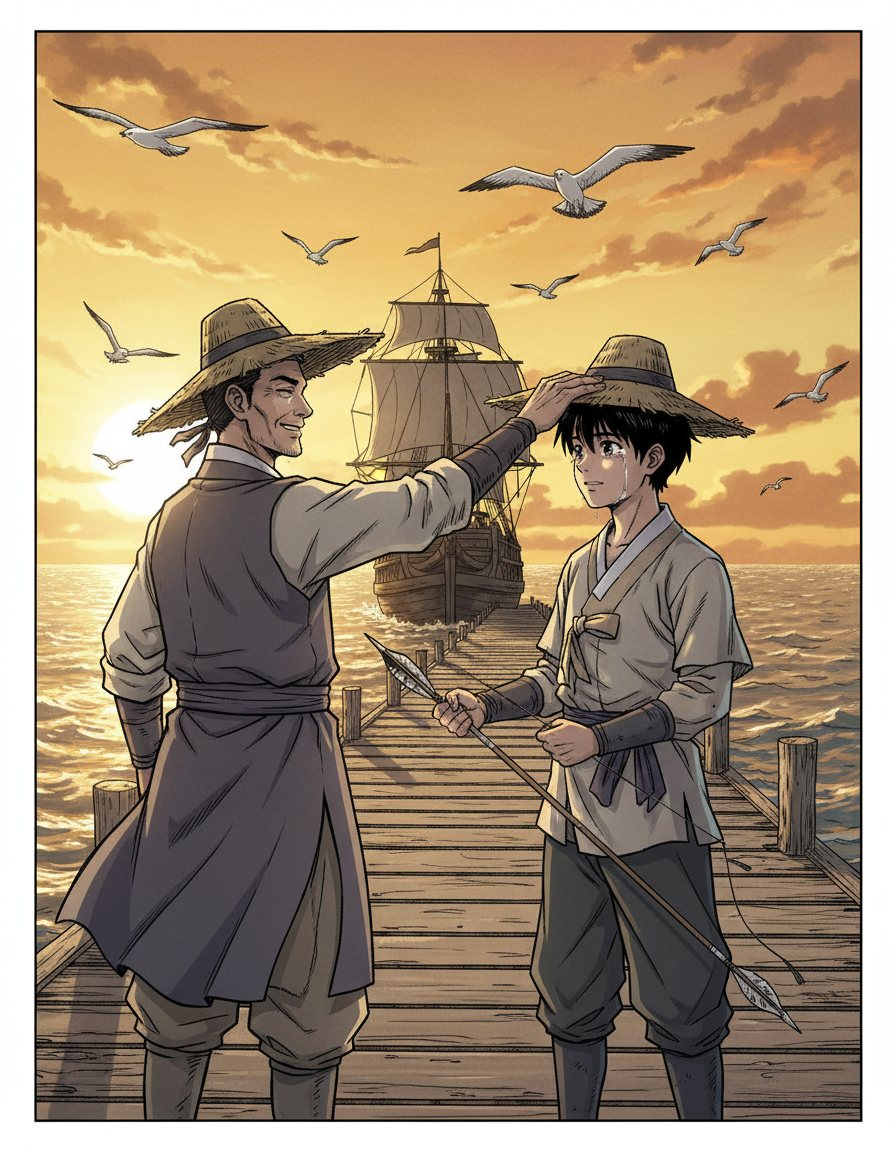
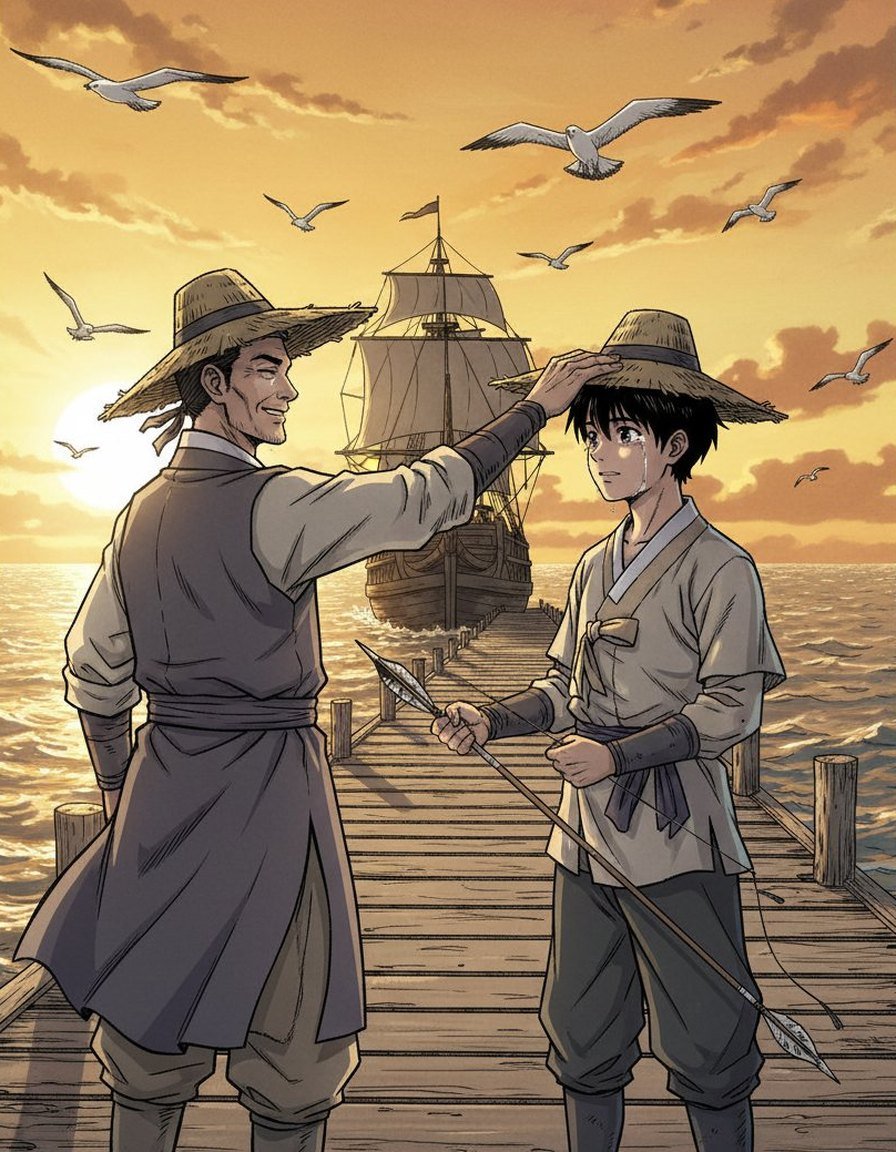
그림 카드 8장만 남김(유물마다 고른 한 장), 5-1 뒷면은 무늬·이름판 없이 깨끗하게
- 천자총통·대·중·소신기전·지자총통·현자총통·각궁·명적은 B, 유엽전·각궁 재료는 C. 나머지 그림 16장 삭제
- 유엽전 C는 흰 테두리를 잘라 살짝 확대
- 5-1 뒷면: 칠보문과 사각형 이름판을 빼고 모눈 위에 이름·이야기·로고만
- 카드 시안 페이지 맨 위: 고른 8장을 앞면·뒷면 짝으로

diff --git a/public/assets/js/cards.js b/public/assets/js/cards.js
@@ -1,12 +1,12 @@
 // 아이에게 주는 유물 카드. 카드 내용은 stops.json의 card 칸(종류, 전투력, 스킬 이름, 뒷면 이야기).
 // 전투력은 고증이 아니라 아이 눈에 세 보이는 정도. 앞면에는 설명글을 두지 않는다(사진·이름·전투력·스킬 이름만).
-// 11/16 결정: 5-1(설계도 + 뒷면 칠보문). 2-1(한지 도록 + 금색 포인트)은 예비. 나머지 시안은 삭제(git 기록에 남음).
+// 11/16 결정: 5-1(설계도, 뒷면은 무늬·이름판 없이 깨끗하게). 2-1(한지 도록 + 금색 포인트)은 예비. 나머지 시안은 삭제(git 기록에 남음).
 import { esc } from "./core.js";
 
 // logo: 카드 바탕이 어두우면 흰 로고(dark), 밝으면 원색 로고(light)
 export const VARIANTS = [
-  { id: "plan-back", base: "plan", label: "5-1", tag: "결정", name: "설계도 · 뒷면 칠보문", logo: "dark", back: { motif: "chilbo", layout: "field" },
-    desc: "남색 모눈 설계도, 전투력만큼 차오르는 동그란 눈금. 뒷면 전체에 칠보문과 가운데 이름판." },
+  { id: "plan-back", base: "plan", label: "5-1", tag: "결정", name: "설계도 · 깨끗한 뒷면", logo: "dark", back: { layout: "plain" },
+    desc: "남색 모눈 설계도, 전투력만큼 차오르는 동그란 눈금. 뒷면은 모눈 위에 이름·이야기·로고만." },
   { id: "catalog-gold", base: "catalog", label: "2-1", tag: "예비", name: "한지 도록 · 금색 포인트", logo: "light", back: { motif: "lotus", layout: "center" },
     desc: "한지색 바탕, 금색 이중 테두리, 빨간 낙관 도장 전투력. 뒷면 가운데 연화문(수막새 연꽃무늬)." },
 ];
@@ -27,15 +27,8 @@ function lotus(sw = 1.4) {
   for (let k = 0; k < 6; k++) { const t = (k * 60 * Math.PI) / 180; seeds += `<circle cx="${f2(50 + 5 * Math.cos(t))}" cy="${f2(50 + 5 * Math.sin(t))}" r="1.2" fill="currentColor"/>`; }
   return `<g fill="none" stroke="currentColor" stroke-width="${sw}"><circle cx="50" cy="50" r="47"/><circle cx="50" cy="50" r="43.5" stroke-width="${f2(sw * 1.9)}" stroke-linecap="round" stroke-dasharray="0.01 5.47"/><circle cx="50" cy="50" r="40"/>${p}<circle cx="50" cy="50" r="9"/>${seeds}</g>`;
 }
-// 칠보문: 칸 꼭짓점마다 원(반지름 = 칸/√2)을 겹친 무늬
-const chilboPat = (id, t) => `<pattern id="${id}" width="${t}" height="${t}" patternUnits="userSpaceOnUse"><g fill="none" stroke="currentColor" stroke-width="${f2(t * 0.05)}">${[[0, 0], [t, 0], [0, t], [t, t]].map(([x, y]) => `<circle cx="${x}" cy="${y}" r="${f2(t / Math.SQRT2)}"/>`).join("")}</g></pattern>`;
-function motif(v) {
-  const b = v.back;
-  const inner = b.layout === "center"
-    ? `<svg viewBox="0 0 100 100" aria-hidden="true">${lotus()}</svg>`
-    : `<svg viewBox="0 0 63 88" preserveAspectRatio="xMidYMid slice" aria-hidden="true"><defs>${chilboPat(`${v.id}-f`, 8)}</defs><rect width="63" height="88" fill="url(#${v.id}-f)"/></svg>`;
-  return `<div class="card__motif card__motif--${b.layout}">${inner}</div>`;
-}
+// 뒷면 문양: 예비 2-1만 가운데 연화문. 결정 5-1은 무늬 없음.
+const motif = (v) => (v.back.motif === "lotus" ? `<div class="card__motif card__motif--center"><svg viewBox="0 0 100 100" aria-hidden="true">${lotus()}</svg></div>` : "");
 const logo = (v) => `<img src="/assets/img/brand/bow-logo-${v.logo}.png" alt="부천활박물관" width="168" height="28">`;
 
 // 만화식 말풍선: 그림 위에 HTML로 얹는다(생성 그림에 한글을 쓰게 하면 글자가 깨져서). x·y는 사진 칸 기준 %, tail은 꼬리 방향.
@@ -55,23 +48,19 @@ export function card(s, v, no, art) {
   </article>`;
 }
 
-// 뒷면: 유물 이름과 이야기 + 로고 (문양 위에)
+// 뒷면: 유물 이름과 이야기 + 로고 (5-1은 모눈 바탕 위에 그대로, 2-1은 연화문 위에)
 export function back(v, s) {
-  const mark = `<div class="card__story"><h4>${esc(s.name)}</h4><p>${esc(s.card.story)}</p></div>${logo(v)}`;
-  const field = v.back.layout === "field";
-  return `<article class="card ${cls(v)} card--back" data-cat="cannon">${motif(v)}<div class="card__backin">${field ? `<div class="card__plate">${mark}</div>` : mark}</div></article>`;
+  return `<article class="card ${cls(v)} card--back" data-cat="cannon">${motif(v)}<div class="card__backin"><div class="card__story"><h4>${esc(s.name)}</h4><p>${esc(s.card.story)}</p></div>${logo(v)}</div></article>`;
 }
 
 // all: 격자에 나오는 유물 전체(카드 번호 = 가나다순 자리). 카드 내용이 있는 유물만 전투력 높은 순으로 그린다.
 export function page(all) {
   const order = [...all].sort((a, b) => a.name.localeCompare(b.name, "ko")).map((s) => s.id);
   const cards = all.filter((s) => s.card).sort((a, b) => b.card.power - a.card.power);
-  // 그림 카드: 뇌리에 꽂히는 만화 장면이 있는 유물만. 유물마다 한 줄 [그림 A][그림 B][그림 C][뒷면].
-  // 그림은 유명 장면의 자세·구도를 빌린 우리 캐릭터(A 꼬마, B 소년, C 원작 느낌을 더 세게), 유물은 실제 사진을 참조해 생성.
+  // 그림 카드 8장(기획자가 고른 한 장씩): 유명 만화 장면의 자세를 빌린 우리 캐릭터, 유물은 실제 사진을 참조해 생성. 앞면·뒷면 짝으로.
   const v0 = VARIANTS[0], arts = cards.filter((s) => s.card.art && s.card.art.length);
-  const artSec = arts.length ? `<section class="vsec" id="v-art"><h2><span>시험 · 그림 카드</span>5-1 틀 + 생성 그림</h2><p>유명 만화 장면의 자세를 빌린 우리 캐릭터. A 꼬마, B 소년, C 원작 느낌을 더 세게. 유물은 실제 사진을 참조해 그림. 줄마다 맨 끝은 뒷면.</p>
-    ${arts.map((s) => `<h3 class="artrow">${esc(s.name)}<span>${esc(s.card.scene || "")}</span></h3>
-    <div class="row">${s.card.art.map((a) => card(s, v0, order.indexOf(s.id) + 1, a)).join("")}${back(v0, s)}</div>`).join("")}</section>` : "";
+  const artSec = arts.length ? `<section class="vsec" id="v-art"><h2><span>그림 카드 · 고른 ${arts.length}장</span>5-1 틀</h2><p>앞면과 뒷면을 짝지어 놓았습니다. 유명 만화 장면의 자세를 빌린 우리 캐릭터, 유물은 실제 사진을 참조해 그림.</p>
+    <div class="row">${arts.map((s) => card(s, v0, order.indexOf(s.id) + 1, s.card.art[0]) + back(v0, s)).join("")}</div></section>` : "";
   return artSec + VARIANTS.map((v) => `<section class="vsec" id="v-${v.id}"><h2><span>시안 ${v.label} · ${v.tag}</span>${esc(v.name)}</h2><p>${esc(v.desc)}</p>
     <div class="row">${cards.map((s) => card(s, v, order.indexOf(s.id) + 1)).join("")}${back(v, cards[0])}</div></section>`).join("");
 }

diff --git a/public/assets/css/cards.css b/public/assets/css/cards.css
@@ -1,5 +1,5 @@
 /* 아이에게 주는 유물 카드. 실제 트레이딩 카드 크기(63×88mm) 비율이고, 모든 치수는 카드 폭(--w)에 비례한다.
-   11/16 결정: 5-1(설계도 + 뒷면 칠보문). 2-1(한지 도록 + 금색 포인트)은 예비. 나머지 시안은 삭제(git 기록에 남음). */
+   11/16 결정: 5-1(설계도 + 뒷면 칠보문). 2-1(한지 도록 + 금색 포인트)은 예비. 5-1 뒷면은 무늬·이름판 없이 깨끗하게. 나머지 시안은 삭제(git 기록에 남음). */
 :root {
   --bg: #1b1b1b; --text: #fafafa; --sub: #a9a9a9; --line: #3a3a3a;
   --font: "Poppins", "Pretendard Variable", "Pretendard", system-ui, sans-serif;
@@ -46,8 +46,6 @@ a { color: inherit; }
 .bubble--down::before { left: 30%; bottom: calc(var(--u) * -4); border-width: calc(var(--u) * 4) calc(var(--u) * 1.6) 0 calc(var(--u) * 1.6); border-top-color: #111; }
 .bubble--down::after { left: calc(30% + var(--u) * .55); bottom: calc(var(--u) * -2.7); border-width: calc(var(--u) * 2.9) calc(var(--u) * 1.05) 0 calc(var(--u) * 1.05); border-top-color: #fff; }
 #v-art h2 span { color: #ff9600; }
-.artrow { margin: 18px 18px 8px; font-size: 1.05rem; }
-.artrow span { margin-left: 10px; color: var(--sub); font-size: .85rem; font-weight: 500; }
 .card__power { display: flex; flex-direction: column; align-items: center; line-height: 1; z-index: 2; }
 .card__power span { font-size: calc(var(--u) * 3.2); font-weight: 700; letter-spacing: .04em; }
 .card__power b { font-family: "Poppins", sans-serif; font-size: calc(var(--u) * 9); font-weight: 700; }
@@ -60,7 +58,7 @@ a { color: inherit; }
 .card__foot { display: flex; justify-content: space-between; align-items: center; font-size: calc(var(--u) * 3); font-weight: 600; }
 .card__foot img { height: calc(var(--u) * 4.2); width: auto; }
 
-/* 뒷면: 이름과 이야기 + 로고, 전통 문양은 흐리게 깔기 */
+/* 뒷면: 이름과 이야기 + 로고 (5-1은 모눈 바탕 그대로, 2-1은 연화문을 흐리게) */
 .card--back .card__backin { position: absolute; inset: 0; z-index: 3; display: flex; flex-direction: column; align-items: center; justify-content: center; gap: calc(var(--u) * 4); }
 .card--back .card__backin img { width: 46%; height: auto; }
 .card__story { text-align: center; padding: 0 calc(var(--u) * 9); }
@@ -69,16 +67,11 @@ a { color: inherit; }
 .card__motif { position: absolute; inset: 0; z-index: 1; pointer-events: none; }
 .card__motif svg { position: absolute; display: block; }
 .card__motif--center svg { width: 84%; left: 8%; top: 50%; transform: translateY(-50%); }
-.card__motif--field svg { inset: 0; width: 100%; height: 100%; }
-.card__plate { display: flex; flex-direction: column; align-items: center; gap: calc(var(--u) * 3); width: 78%; padding: calc(var(--u) * 6) calc(var(--u) * 5);
-  background: var(--plate); border: 1px solid var(--plate-line); border-radius: calc(var(--u) * 2); }
-.card--back .card__plate img { width: 62%; }
-.card__plate .card__story { padding: 0; }
 
 /* ---------- 5-1 설계도 (결정): 남색 모눈, 전투력만큼 차오르는 눈금 ---------- */
 .card--plan { background-color: #0e2c4f; color: #e8f1ff; padding: calc(var(--u) * 5); gap: calc(var(--u) * 2.6); border: calc(var(--u) * .8) solid #9cc3ff;
   background-image: linear-gradient(rgba(255, 255, 255, .07) 1px, transparent 1px), linear-gradient(90deg, rgba(255, 255, 255, .07) 1px, transparent 1px);
-  background-size: calc(var(--u) * 5) calc(var(--u) * 5); --plate: #0e2c4f; --plate-line: #9cc3ff; }
+  background-size: calc(var(--u) * 5) calc(var(--u) * 5); }
 .card--plan .card__photo { border: 1px solid #9cc3ff; }
 .card--plan .card__power { position: absolute; top: calc(var(--u) * 2.5); right: calc(var(--u) * 2.5); width: calc(var(--u) * 24); height: calc(var(--u) * 24); border-radius: 50%; justify-content: center; gap: calc(var(--u) * .6);
   background: radial-gradient(#0e2c4f 57%, transparent 58%), conic-gradient(#ffd166 calc(var(--p) * 360deg), rgba(156, 195, 255, .25) 0); }
@@ -87,10 +80,9 @@ a { color: inherit; }
 .card--plan .card__cat { color: #9cc3ff; letter-spacing: .2em; }
 .card--plan .card__skill-name { color: #ffd166; }   /* 11/16: 스킬 칸의 점선 네모는 없앰 */
 .card--plan .card__foot { color: #9cc3ff; }
-.card--plan .card__motif { color: #9cc3ff; opacity: .26; }
 
 /* ---------- 2-1 한지 도록 + 금색 포인트 (예비) ---------- */
-.card--catalog { background: #fffaf0; color: #24160f; padding: calc(var(--u) * 5.5); gap: calc(var(--u) * 2.4); font-family: var(--serif); --plate: #fffaf0; --plate-line: #d4a24a;
+.card--catalog { background: #fffaf0; color: #24160f; padding: calc(var(--u) * 5.5); gap: calc(var(--u) * 2.4); font-family: var(--serif);
   box-shadow: inset 0 0 0 calc(var(--u) * 2) #fffaf0, inset 0 0 0 calc(var(--u) * 2.5) #d4a24a, inset 0 0 0 calc(var(--u) * 3.3) #fffaf0, inset 0 0 0 calc(var(--u) * 3.6) #d4a24a; }
 .card--catalog .card__photo { border: 1px solid #d4a24a; padding: calc(var(--u) * 1.4); background: #fff; }
 .card--catalog .card__power { position: absolute; top: calc(var(--u) * 3.4); right: calc(var(--u) * 3.4); width: calc(var(--u) * 20); height: calc(var(--u) * 20); justify-content: center; gap: calc(var(--u) * .8);

diff --git a/DESIGN.md b/DESIGN.md
@@ -77,4 +77,4 @@ rounded:
 휴대폰이 기본. 터치 영역 44px 이상, 본문 16px 이상. 주소창 때문에 넘치지 않게 `100svh`.
 
 ## 9. 에이전트 지시
-이 파일과 `public/assets/css/app.css`의 변수를 따른다. 새 화면을 만들 때는 위 5장의 "화면 하나에 질문 하나"를 먼저 정하고, 7장의 하지 말 것을 점검한다. 아이에게 주는 유물 카드 디자인은 5-1(설계도 + 뒷면 칠보문)로 결정, 2-1은 예비(`/cards.html`). 앱 맨 위 띠의 임시 링크는 나중에 삭제.
+이 파일과 `public/assets/css/app.css`의 변수를 따른다. 새 화면을 만들 때는 위 5장의 "화면 하나에 질문 하나"를 먼저 정하고, 7장의 하지 말 것을 점검한다. 아이에게 주는 유물 카드 디자인은 5-1(설계도, 뒷면은 모눈 위에 이름·이야기·로고만 — 무늬·이름판 없음)로 결정, 2-1은 예비(`/cards.html`). 그림 카드는 기획자가 고른 8장(천자·대중소신기전·지자·현자·각궁·명적은 B 소년, 유엽전·각궁 재료는 C). 앱 맨 위 띠의 임시 링크는 나중에 삭제.
